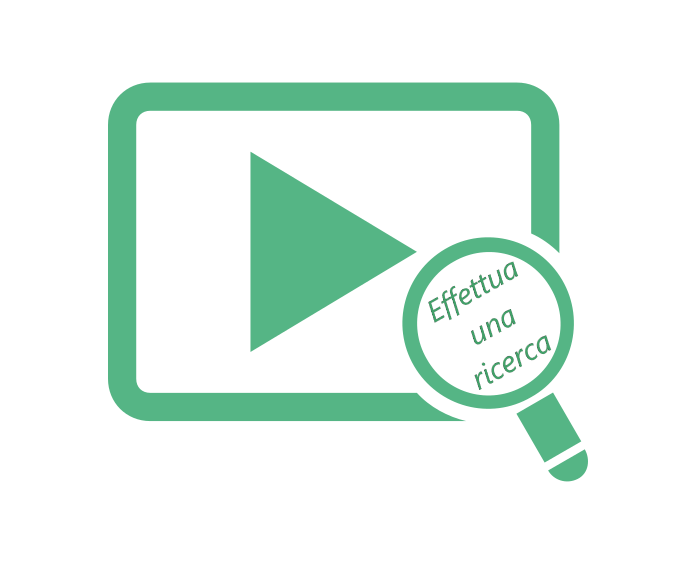
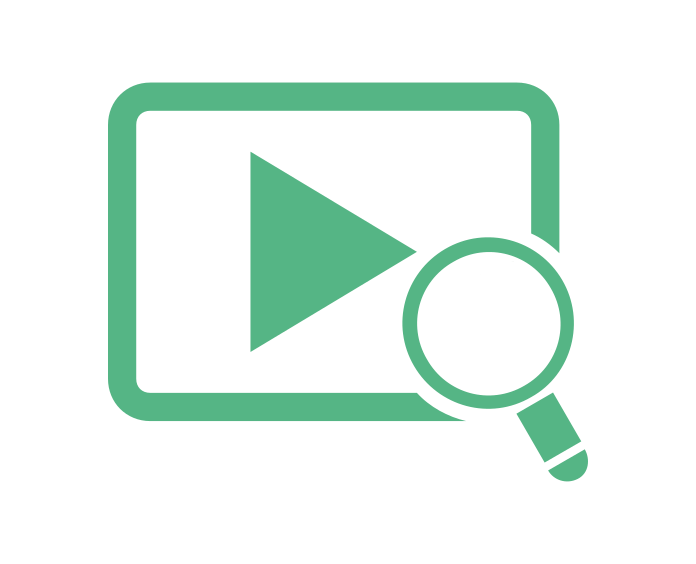
Added splash download background image.

Changed region(s): [[0.6034, 0.4521, 0.7543, 0.5727], [0.6638, 0.6028, 0.8147, 0.6933], [0.6638, 0.5426, 0.7543, 0.6028]]

diff --git a/Youtube Audio Downloader/Properties/Resources.Designer.cs b/Youtube Audio Downloader/Properties/Resources.Designer.cs
@@ -73,6 +73,16 @@ namespace YoutubeAudioDownloader.Properties {
         /// <summary>
         ///   Cerca una risorsa localizzata di tipo System.Drawing.Bitmap.
         /// </summary>
+        internal static System.Drawing.Bitmap PerformDownload {
+            get {
+                object obj = ResourceManager.GetObject("PerformDownload", resourceCulture);
+                return ((System.Drawing.Bitmap)(obj));
+            }
+        }
+        
+        /// <summary>
+        ///   Cerca una risorsa localizzata di tipo System.Drawing.Bitmap.
+        /// </summary>
         internal static System.Drawing.Bitmap PerformResearch {
             get {
                 object obj = ResourceManager.GetObject("PerformResearch", resourceCulture);

diff --git a/Youtube Audio Downloader/Main/Download/DownloadUserControl.Designer.cs b/Youtube Audio Downloader/Main/Download/DownloadUserControl.Designer.cs
@@ -79,7 +79,7 @@
             // panelContent
             // 
             this.panelContent.AutoScroll = true;
-            this.panelContent.BackgroundImage = global::YoutubeAudioDownloader.Properties.Resources.PerformResearch;
+            this.panelContent.BackgroundImage = global::YoutubeAudioDownloader.Properties.Resources.PerformDownload;
             this.panelContent.BackgroundImageLayout = System.Windows.Forms.ImageLayout.Zoom;
             this.panelContent.Dock = System.Windows.Forms.DockStyle.Fill;
             this.panelContent.Location = new System.Drawing.Point(0, 0);

diff --git a/Youtube Audio Downloader/Main/Download/DownloadUserControl.cs b/Youtube Audio Downloader/Main/Download/DownloadUserControl.cs
@@ -51,7 +51,7 @@ namespace YoutubeAudioDownloader.Main.Download
             {
                 panelContent.Controls.Clear();
 
-                panelContent.BackgroundImage = Resources.PerformResearch;
+                panelContent.BackgroundImage = Resources.PerformDownload;
             }
         }
         #endregion
